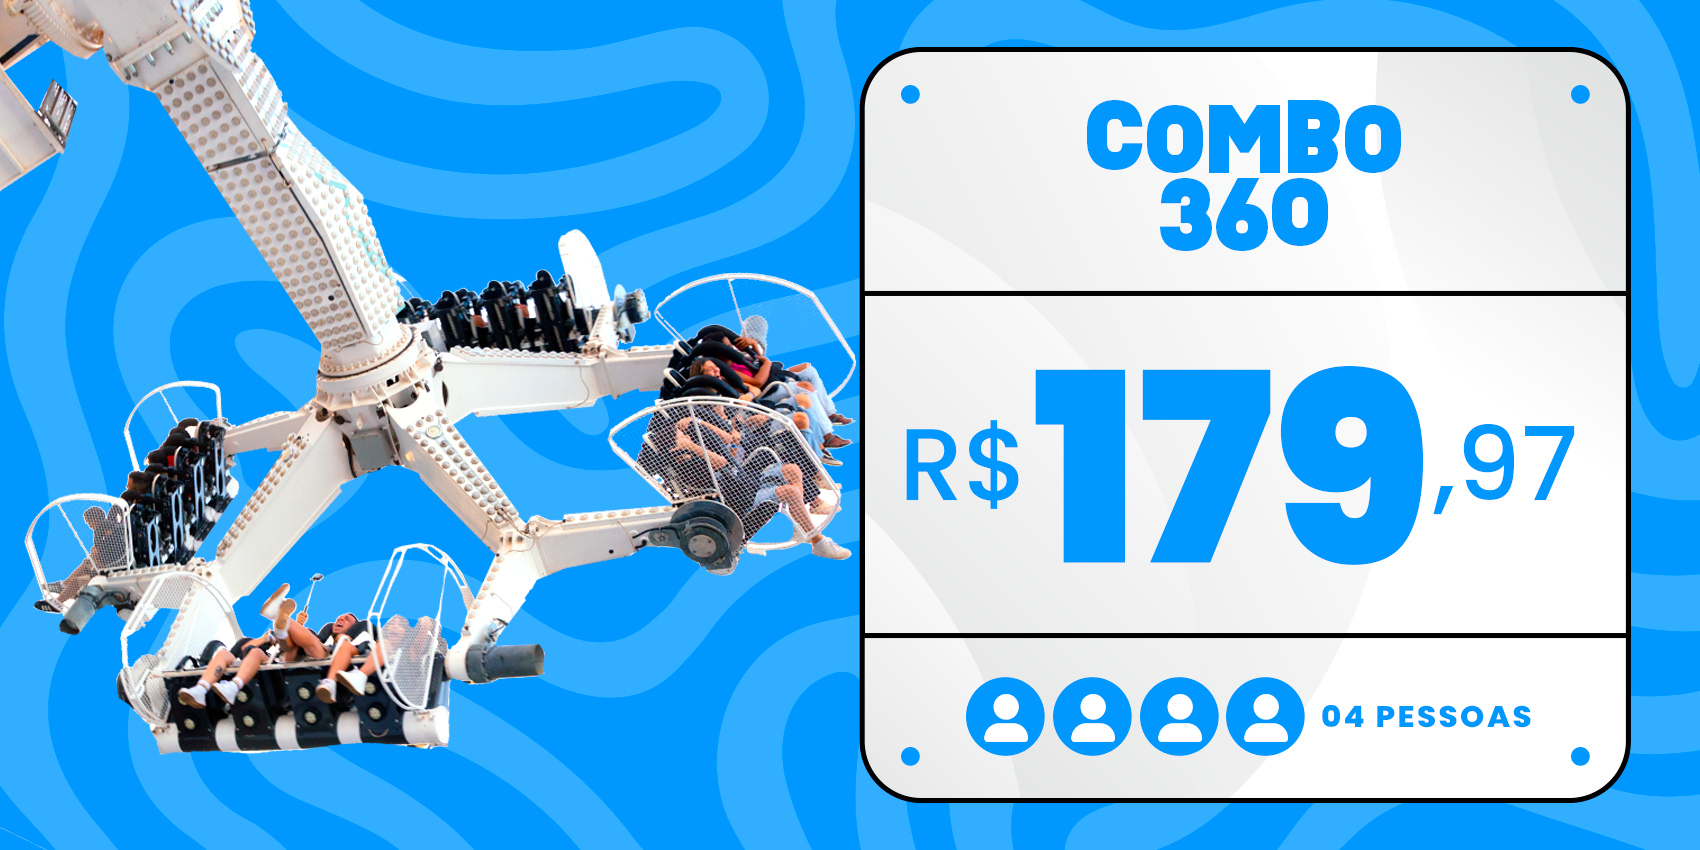
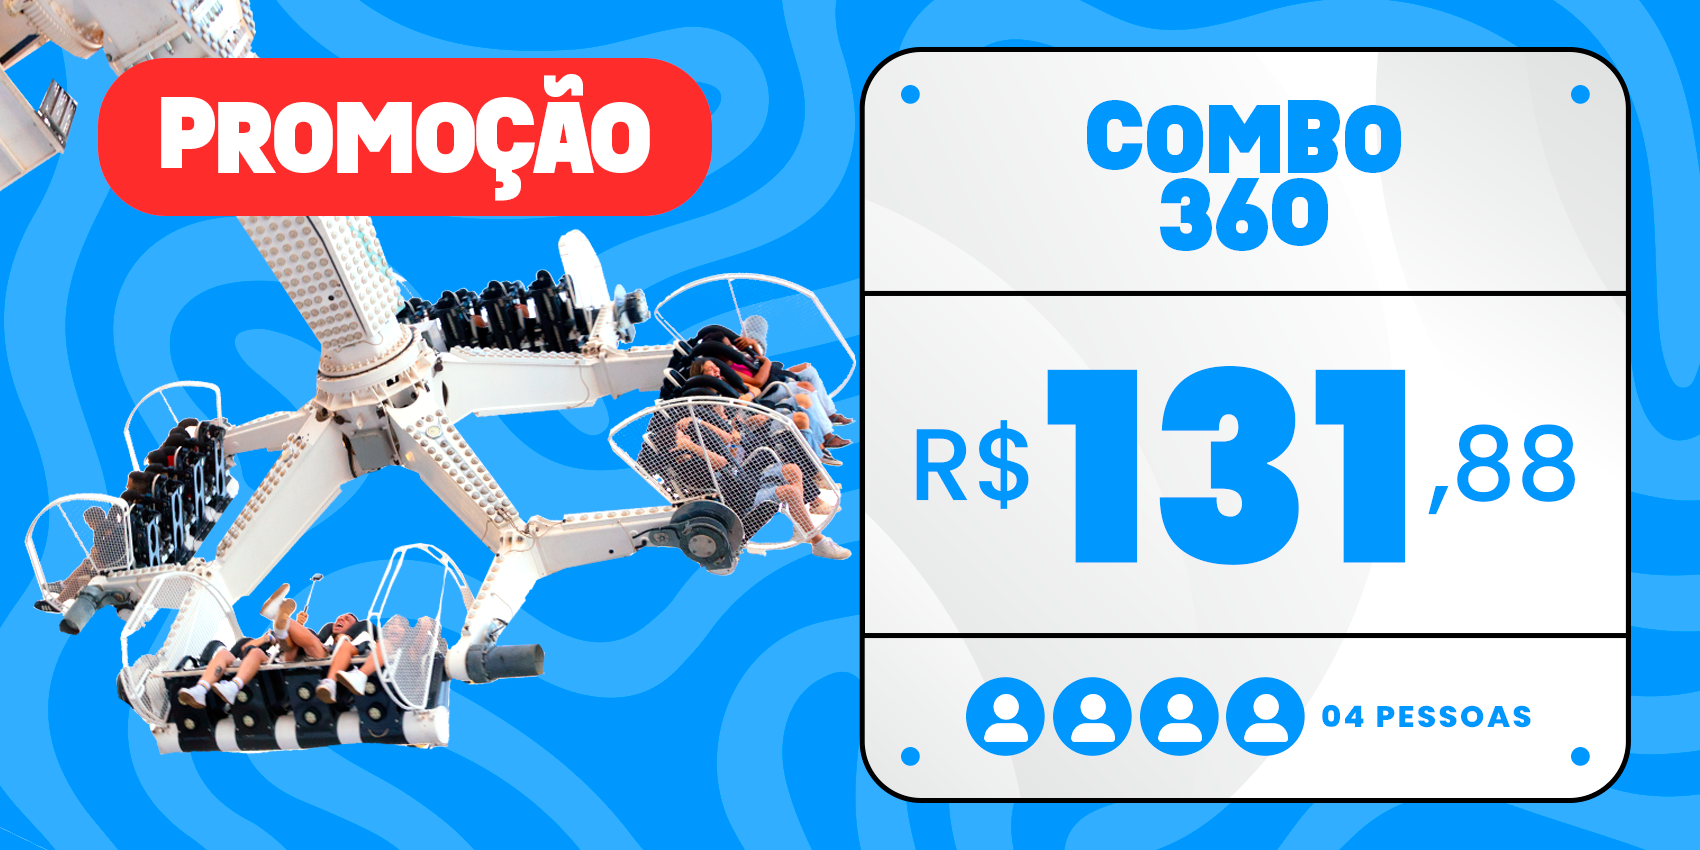
feat: add 360 promo

Changed region(s): [[0.0312, 0.0612, 0.4365, 0.2753], [0.53, 0.4282, 0.9353, 0.6729]]

diff --git a/src/pages/passaportes/index.tsx b/src/pages/passaportes/index.tsx
@@ -126,7 +126,7 @@ export default function PassaportsPage() {
                 <Ticket
                   id={18}
                   name="Combo 360"
-                  price={17997}
+                  price={13188}
                   banner={Combo360}
                   quantity={4}
                   reference={6297}
